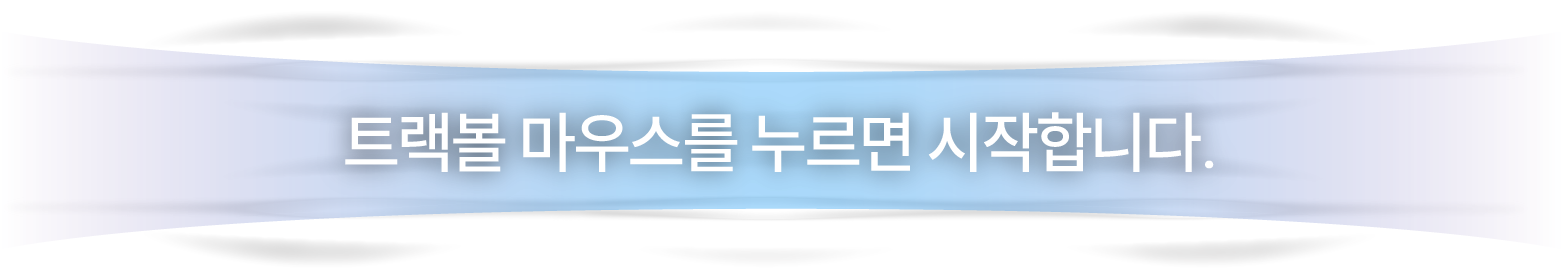
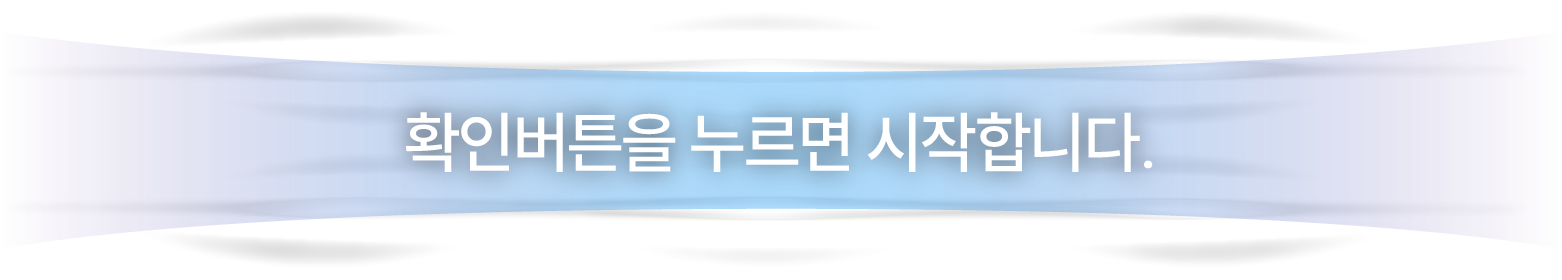
11

Changed region(s): [[0.2151, 0.3714, 0.799, 0.6286]]

diff --git a/Assets/My/Scripts/1_Title/TitlePage.cs b/Assets/My/Scripts/1_Title/TitlePage.cs
@@ -4,6 +4,7 @@ using System.Threading;
 using Cysharp.Threading.Tasks;
 using Unity.VisualScripting;
 using UnityEngine;
+using UnityEngine.UI;
 
 [Serializable]
 public class TitleSetting
@@ -15,6 +16,7 @@ public class TitleSetting
 
     public VideoSetting subBackground;
     public ImageSetting assistance;
+    public ButtonSetting confirmButton;
 }
 
 public class TitlePage : BasePage<TitleSetting>
@@ -27,6 +29,7 @@ public class TitlePage : BasePage<TitleSetting>
     private GameObject titleBG;
     private GameObject titleImage;
     private GameObject titleGuideImage;
+    private GameObject confirmButton;
 
     protected override async UniTask BuildContentAsync(CancellationToken token)
     {   
@@ -37,8 +40,14 @@ public class TitlePage : BasePage<TitleSetting>
         
         await UICreator.Instance.CreateSingleImageAsync(setting.assistance, subCanvasObj, token);
 
+        (confirmButton, _) = await UICreator.Instance.CreateSingleButtonAsync(setting.confirmButton, subCanvasObj, token);
+        if (confirmButton.TryGetComponent(out Button button))
+        {   
+            Debug.Log("Confirm Clicked");
+            button.onClick.AddListener(() => OnClickConfirmButtonAsync().Forget());
+        }
+
         isCreated = true;
-        
         GameManager.Instance.TitlePage = gameObject;
     }
 
@@ -50,33 +59,32 @@ public class TitlePage : BasePage<TitleSetting>
         inputReady = true;
     }
 
-    protected async void Update()
+    /// <summary>컨펌 버튼 클릭 시 튜토리얼 페이지로 전환</summary>
+    private async UniTask OnClickConfirmButtonAsync()
     {
+        if (!inputReady) return;
+        inputReady = false;
+
         try
         {
-            if (!inputReady) return;
+            await FadeManager.Instance.FadeOutAsync(jsonSetting.fadeTime);
+            gameObject.SetActive(false);
 
-            if (Input.GetMouseButtonDown(0))
+            if (tutorialPage)
             {
-                inputReady = false;
-                await FadeManager.Instance.FadeOutAsync(jsonSetting.fadeTime);
-                gameObject.SetActive(false);
-                if (tutorialPage)
-                {
-                    tutorialPage.SetActive(true);
-                    await FadeManager.Instance.FadeInAsync(JsonLoader.Instance.settings.fadeTime);
-                }
-                else
-                {
-                    tutorialPage = new GameObject("TutorialPage");
-                    tutorialPage.AddComponent<TutorialPage>();
-                    UIManager.Instance.pages.Add(tutorialPage);
-                }
+                tutorialPage.SetActive(true);
+                await FadeManager.Instance.FadeInAsync(JsonLoader.Instance.settings.fadeTime);
+            }
+            else
+            {
+                tutorialPage = new GameObject("TutorialPage");
+                tutorialPage.AddComponent<TutorialPage>();
+                UIManager.Instance.pages.Add(tutorialPage);
             }
         }
         catch (Exception e)
         {
-            Debug.LogError($"[{GetType().Name}] Update failed: {e}");
+            Debug.LogError($"[{GetType().Name}] OnClickConfirmButtonAsync failed: {e}");
         }
     }
 }

diff --git a/Assets/My/Scripts/0_Global/Page/BasePage.cs b/Assets/My/Scripts/0_Global/Page/BasePage.cs
@@ -74,7 +74,7 @@ public abstract class BasePage<T> : MonoBehaviour where T : class
     {
         cancelToken = new CancellationTokenSource();
         
-        Cursor.lockState = CursorLockMode.Locked;
+        //Cursor.lockState = CursorLockMode.Locked;
         lastMousePos = Input.mousePosition;
         mouseInit = true;
         smoothedDelta = Vector2.zero;
